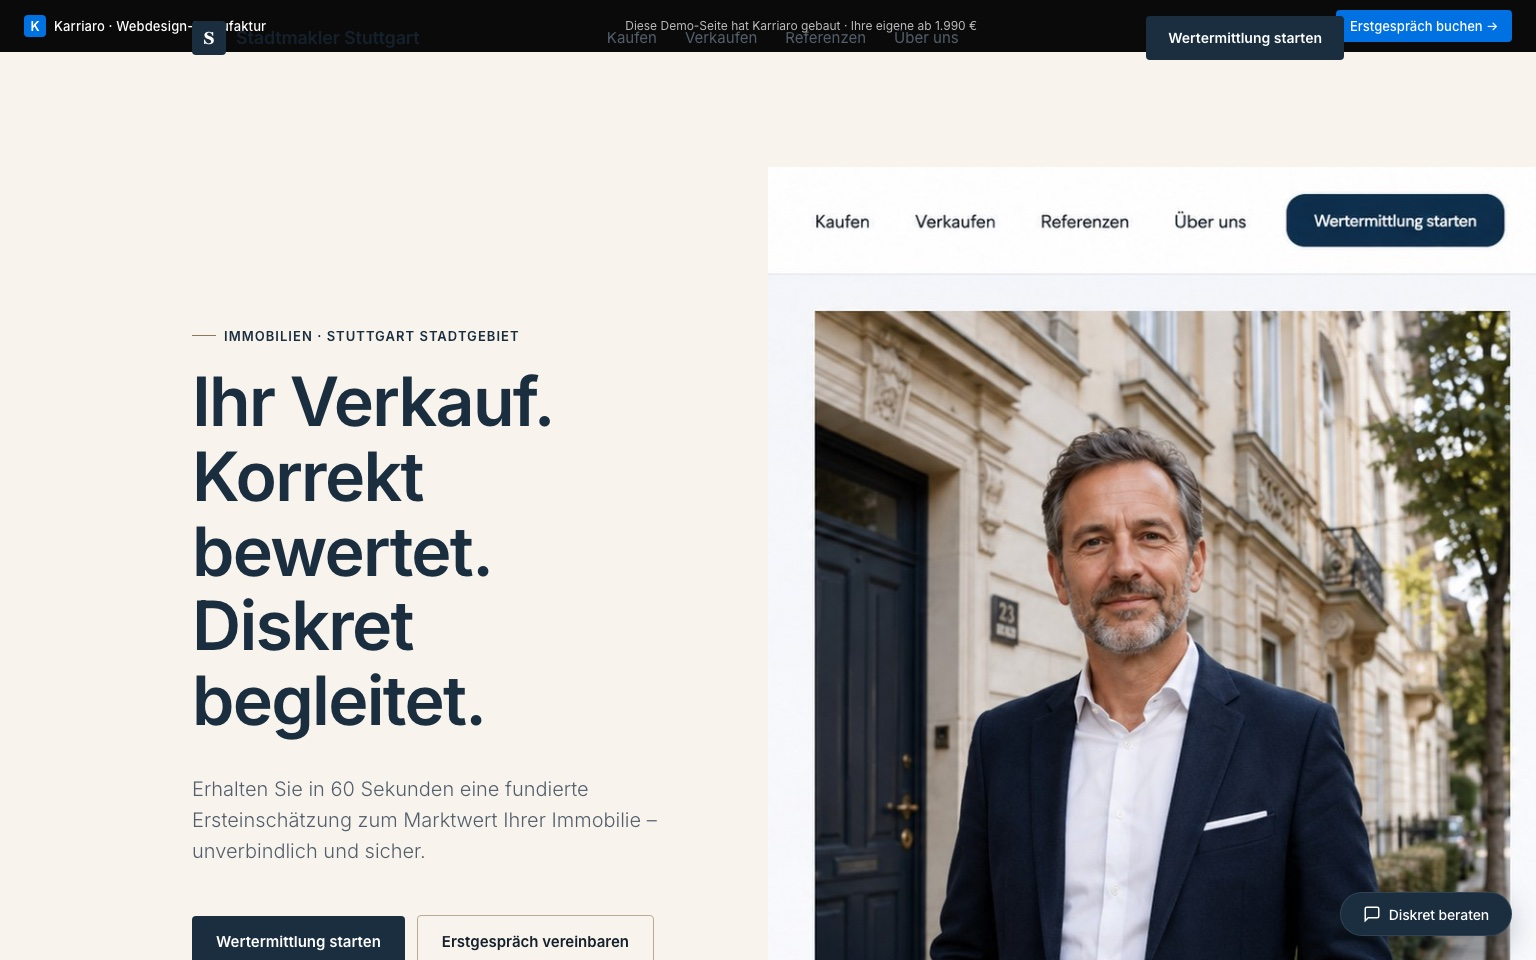
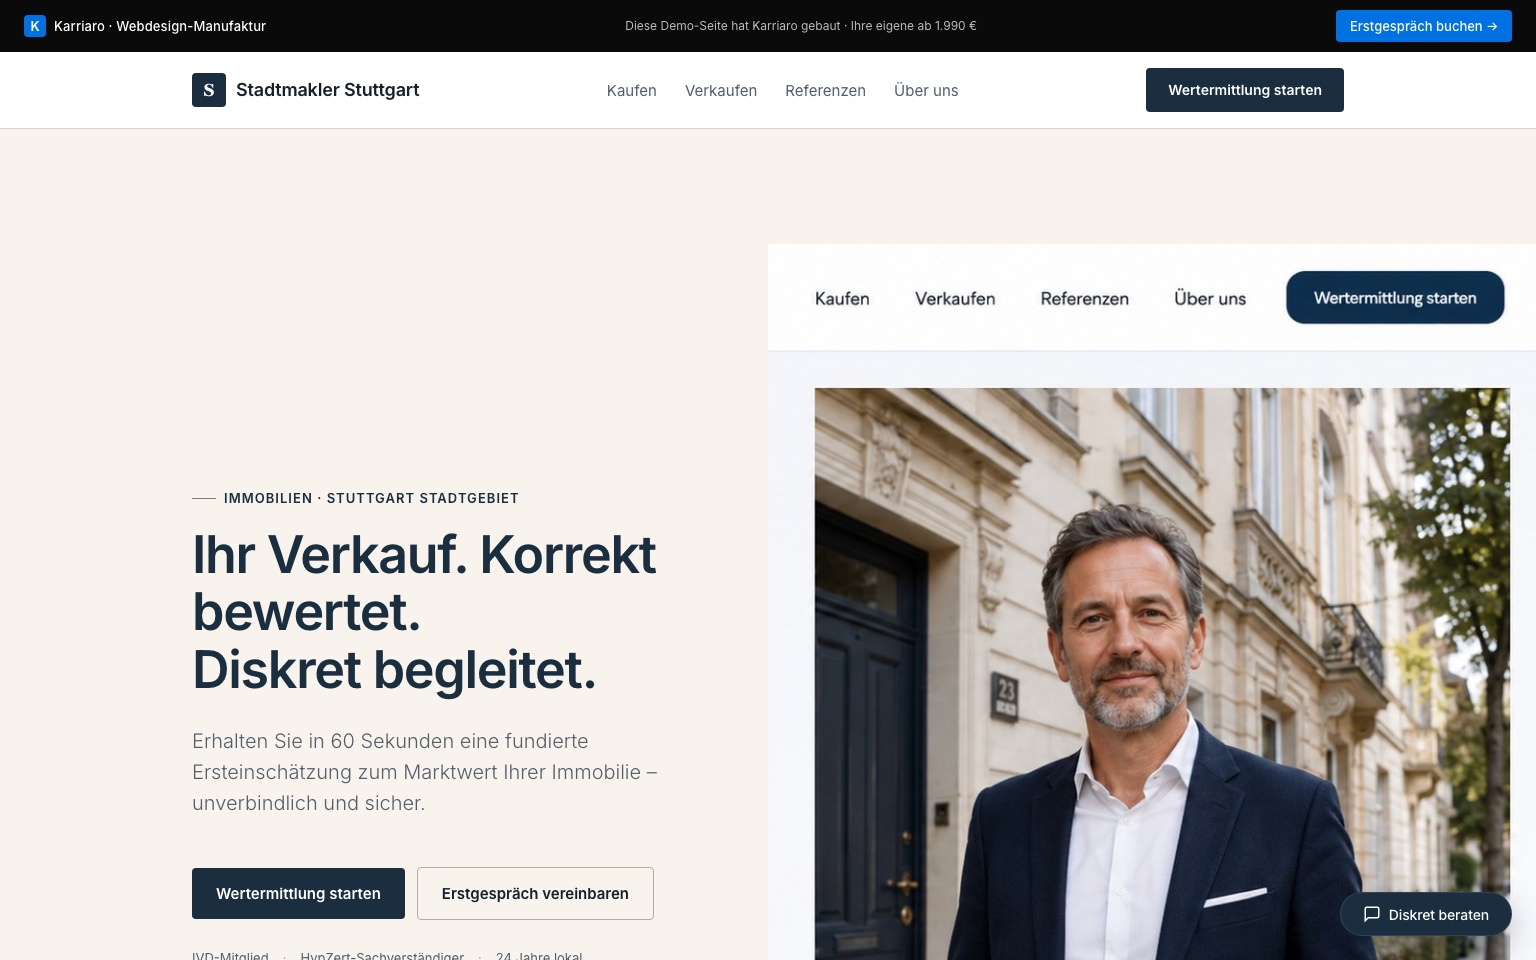
Sprint 25: Immobilien-Hero Final-Fix — 1:1 zum Wunsch-Mockup
- Apple-Style transparent Nav (Sprint 24) zurückgerollt: jetzt klassisch sticky weisse Nav mit Bottom-Border — verträgt sich mit dem kr-strip darüber
- JS-Listener für .is-scrolled entfernt (nicht mehr gebraucht)
- H1-font-size von clamp(40px, 5.2vw, 68px) → clamp(36px, 3.6vw, 52px) — 2-zeilig statt 5-zeilig bei 1440px
- Hero-content padding-top von 120px → 64px (war für transparent-Nav-Höhe ausgelegt, jetzt erübrigt sich das)
- Mobile-padding von 96px → 48px

kr-strip bleibt oben, Nav klassisch weiss darunter, Hero startet sauber unter beidem mit Foto rechts full-bleed.

diff --git a/src/portfolio/immobilien-makler.html b/src/portfolio/immobilien-makler.html
@@ -147,8 +147,7 @@
         .topbar { background: var(--text); color: #fff; font-size: 13px; padding: 9px 24px; text-align: center; letter-spacing: 0.01em; }
         .topbar strong { color: var(--gold); font-weight: 600; }
         .topbar a { color: #fff; text-decoration: underline; text-decoration-color: rgba(255,255,255,0.4); }
-        .nav { position: fixed; top: 0; left: 0; right: 0; z-index: 100; background: transparent; border-bottom: 1px solid transparent; transition: background 0.3s, backdrop-filter 0.3s, border-color 0.3s; }
-        .nav.is-scrolled { background: rgba(255,255,255,0.92); backdrop-filter: blur(14px); -webkit-backdrop-filter: blur(14px); border-bottom-color: var(--border); }
+        .nav { position: sticky; top: 0; z-index: 100; background: #fff; border-bottom: 1px solid var(--border); }
         .nav-inner { max-width: var(--max); margin: 0 auto; padding: 0 24px; height: 76px; display: flex; align-items: center; justify-content: space-between; gap: 24px; }
         .brand { display: flex; align-items: center; gap: 10px; font-size: 18px; font-weight: 600; letter-spacing: -0.01em; }
         .brand-mark { display: inline-flex; align-items: center; justify-content: center; width: 34px; height: 34px; background: var(--accent); color: #fff; border-radius: 4px; font-weight: 700; font-size: 17px; font-family: 'Georgia', serif; }
@@ -161,18 +160,18 @@
         .mobile-menu { display: none; }
 
         .hero { display: grid; grid-template-columns: 1fr 1fr; gap: 0; min-height: clamp(560px, 70vh, 760px); align-items: center; background: var(--bg); }
-        .hero-content { padding-top: 120px; padding-bottom: 80px; padding-left: max(24px, calc((100vw - var(--max)) / 2 + 24px)); padding-right: 56px; }
+        .hero-content { padding-top: 64px; padding-bottom: 64px; padding-left: max(24px, calc((100vw - var(--max)) / 2 + 24px)); padding-right: 56px; }
         .hero-portrait { align-self: stretch; height: 100%; overflow: hidden; }
         .hero-portrait img { width: 100%; height: 100%; object-fit: cover; display: block; }
         @media (max-width: 920px) {
             .hero { grid-template-columns: 1fr; min-height: auto; }
-            .hero-content { padding: 96px 24px 40px; }
+            .hero-content { padding: 48px 24px 32px; }
             .hero-portrait { aspect-ratio: 4/3; }
         }
         .hero-grid { display: grid; grid-template-columns: 1.05fr 1fr; gap: 56px; align-items: center; }
         .hero-eyebrow { display: inline-flex; align-items: center; gap: 8px; color: var(--accent); font-size: 13px; font-weight: 600; letter-spacing: 0.08em; text-transform: uppercase; margin-bottom: 18px; }
         .hero-eyebrow::before { content: ''; width: 24px; height: 1px; background: var(--gold); }
-        .hero h1 { margin-bottom: 36px; color: var(--accent); font-family: var(--font); font-weight: 700; font-size: clamp(40px, 5.2vw, 68px); letter-spacing: -0.025em; line-height: 1.1; }
+        .hero h1 { margin-bottom: 28px; color: var(--accent); font-family: var(--font); font-weight: 700; font-size: clamp(36px, 3.6vw, 52px); letter-spacing: -0.025em; line-height: 1.1; }
         .hero p.lead { font-size: 20px; color: var(--text-soft); max-width: 520px; margin-bottom: 48px; font-weight: 300; line-height: 1.55; }
         .hero-ctas { display: flex; gap: 12px; align-items: center; flex-wrap: wrap; margin-bottom: 28px; }
         .btn { display: inline-flex; align-items: center; gap: 8px; padding: 14px 24px; border-radius: 4px; font-size: 15px; font-weight: 600; transition: all 0.2s; }
@@ -1509,12 +1508,6 @@
     </div>
 
     <script>
-        // Nav-Scroll-Detection: transparent über Hero, solid bei Scroll
-        var navEl = document.querySelector('.nav');
-        window.addEventListener('scroll', function () {
-            navEl.classList.toggle('is-scrolled', window.scrollY > 20);
-        }, { passive: true });
-
         document.querySelectorAll('.mobile-menu a').forEach(function (a) {
             a.addEventListener('click', function () { document.getElementById('mobile-menu').classList.remove('is-open'); });
         });
